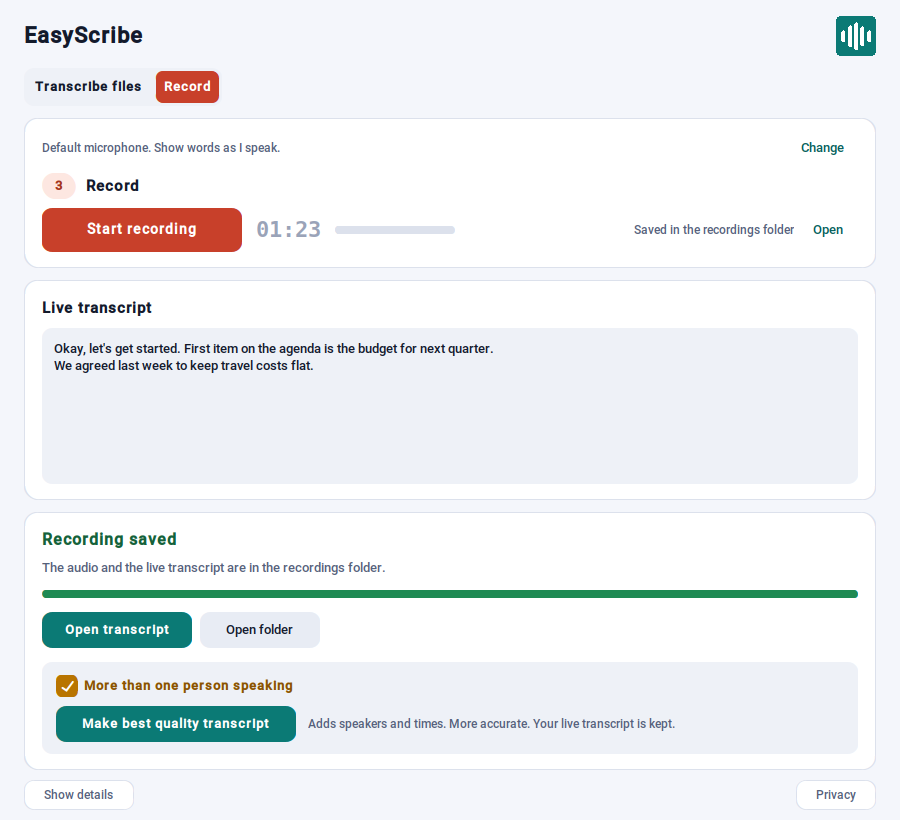
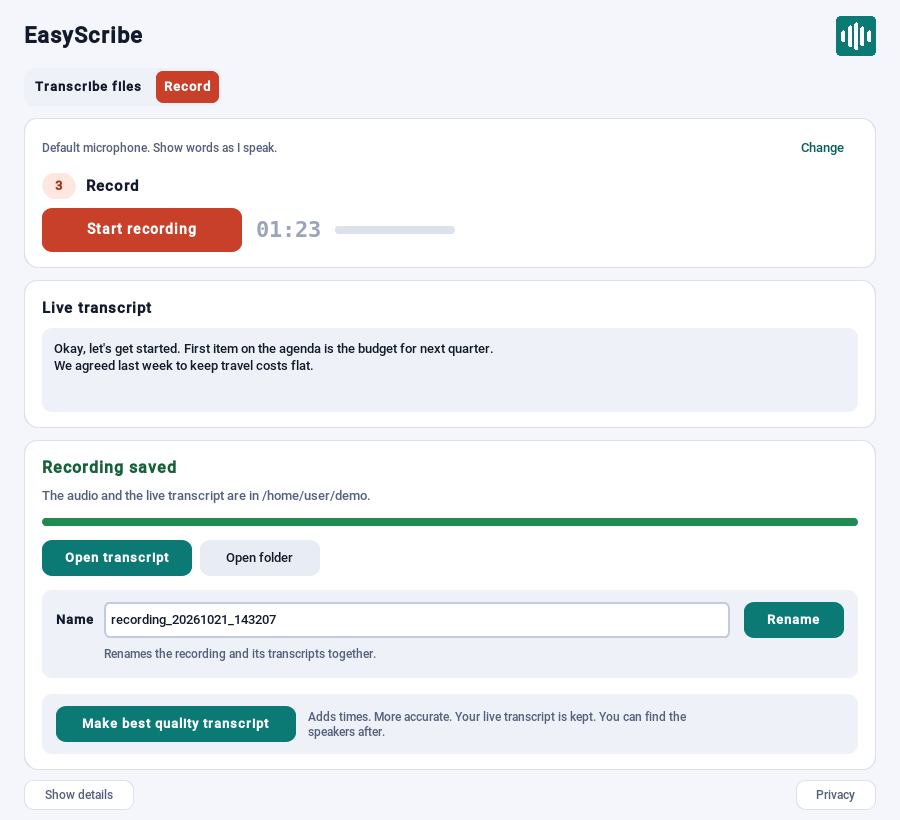
README: new screenshots, Name box, Find speakers card, project layout

diff --git a/README.md b/README.md
@@ -48,7 +48,7 @@ When it is done, open the transcript or the folder with one click. Each transcri
 
 ### Name the speakers
 
-Tick **Name the speakers** to find who is talking. When the speakers are found, a panel opens in the main window. Play a short sample of each voice and type a name. The names go into the transcript.
+In **Transcribe files**, tick **Name the speakers** to find who is talking. (After a recording, use **Find speakers**; see below.) When the speakers are found, a panel opens in the main window. Play a short sample of each voice and type a name. The names go into the transcript.
 
 <p align="center">
   <img src="docs/screenshots/name-speakers.png" alt="The panel to name each speaker" width="560">
@@ -64,18 +64,26 @@ Select **Record** and choose your microphone. Then choose what you want:
 Both choices save the recording in `Documents\EasyScribe`. To use a different folder, select **Change folder** under **Save recordings to**; EasyScribe remembers it. Select **Start recording**. The small bar next to the timer shows that the microphone hears you.
 
 <p align="center">
-  <img src="docs/screenshots/recording.png" alt="EasyScribe recording" width="640">
+  <img src="docs/screenshots/recording.png" alt="The Record tab: microphone, what you want, and where recordings are saved" width="640">
+</p>
+
+When the transcript is ready, you can name the files and find the speakers:
+
+<p align="center">
+  <img src="docs/screenshots/transcript-ready.png" alt="A recording's transcript is ready, with the Name box and the Find speakers card" width="640">
 </p>
 
 After a live recording, you can still get the best result: select **Make best quality transcript**. This runs the saved recording through the more accurate engine, with times. Then you can select **Find speakers**. Your live transcript is kept, and the new one is saved as a separate `(best quality).txt` file.
 
 <p align="center">
-  <img src="docs/screenshots/recording-saved.png" alt="A saved recording, with the Make best quality transcript button" width="640">
+  <img src="docs/screenshots/recording-saved.png" alt="A saved live recording, with the Name box and the Make best quality transcript button" width="640">
 </p>
 
-After a result, you can give the files a name: type it in the **Name** box and select **Rename**. A recording and its transcripts are renamed together (`Team meeting.wav`, `Team meeting.txt`, `Team meeting (speakers).txt`). In **Transcribe files**, only the new transcript is renamed; your original file is not changed.
-
 If your computer stops during a recording, EasyScribe offers to recover the audio the next time it opens.
+
+### Name your files
+
+After a result, the **Name** box shows the file's current name. Change it or add to it, then select **Rename** (or press Enter). You can also ignore it: nothing changes unless you select Rename. A recording and its transcripts are renamed together (`Team meeting.wav`, `Team meeting.txt`, `Team meeting (speakers).txt`). In **Transcribe files**, only the new transcript is renamed; your original file is not changed.
 
 ### Your privacy
 
@@ -145,7 +153,7 @@ After a pause, the next block starts here.
 | **Name the speakers** is grey | The speaker models are missing. Run the `.exe` again. |
 | No microphones in the list | Check your microphone in the Windows sound settings. |
 | Antivirus flags the `.exe` | Some antivirus tools flag PyInstaller apps by mistake. Add an exclusion. |
-| Transcription is slow | Without a supported graphics card, EasyScribe uses the processor. Long files take longer. **Details** shows which device is used. |
+| Transcription is slow | Without a supported graphics card, EasyScribe uses the processor. Long files take longer. **Show details** shows which graphics card or processor is used. |
 
 ---
 ---
@@ -241,6 +249,8 @@ src/
   live_transcriber.py    Silero VAD loop + OfflineRecognizer for live mode
   recovery.py            Orphaned .pcm scanner and WAV recovery
   gui.py                 CustomTkinter UI with threaded workers
+  rename.py              Renames a recording and its transcripts together (the Name box)
+  transitions.py         Windows only: fade out and in when the screen changes
   win_paint.py           Windows only: paints window backgrounds at once (no black blocks)
 
 launcher/
@@ -253,6 +263,7 @@ assets/
   splash.png             "Getting ready" window shown while the .exe unpacks
   make_splash.py         Regenerates splash.png (needs Pillow and customtkinter)
   version_resource.py    Windows file-version info for both specs, from APP_VERSION
+  make_update_bundle.py  Builds the bundle for the small EasyScribe-update-vX.exe
 
 tests/                   Fast offline checks; run all with `python tests/run_all.py`
 ```
